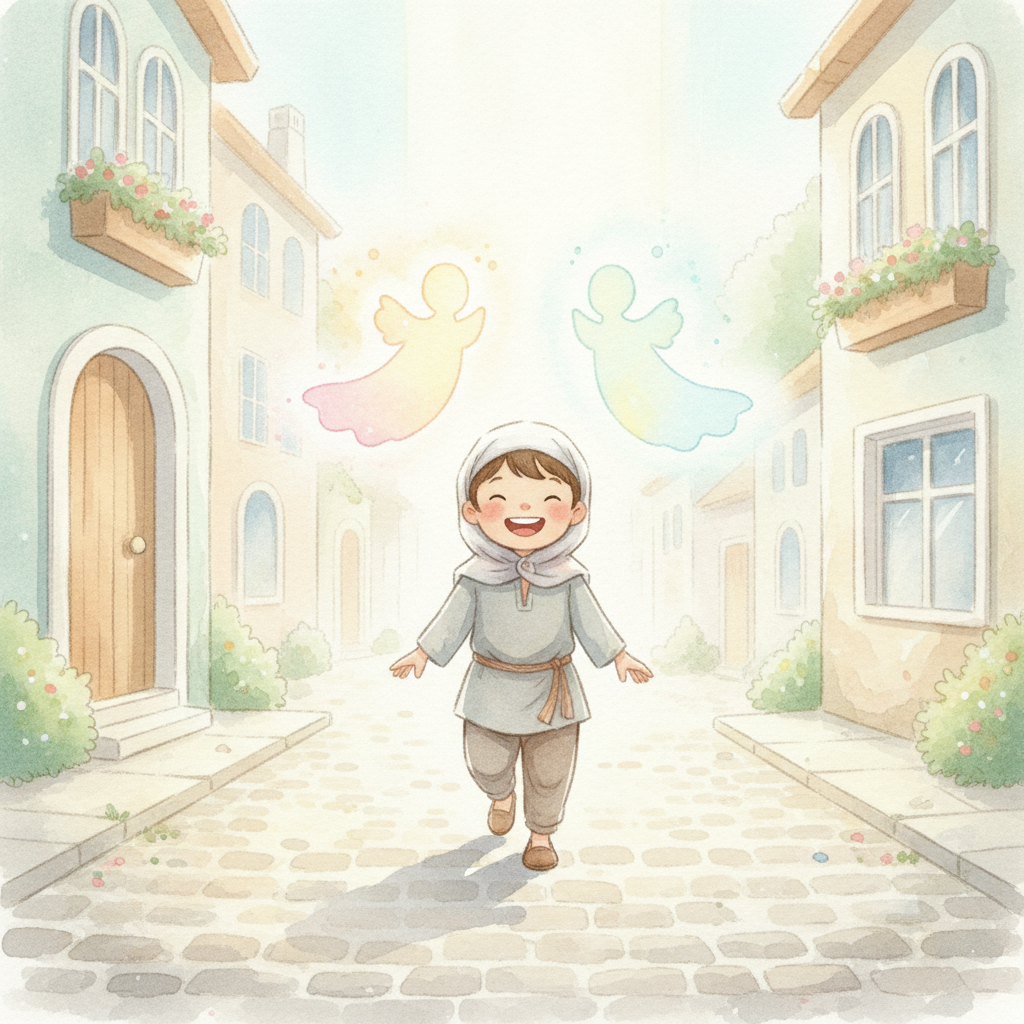
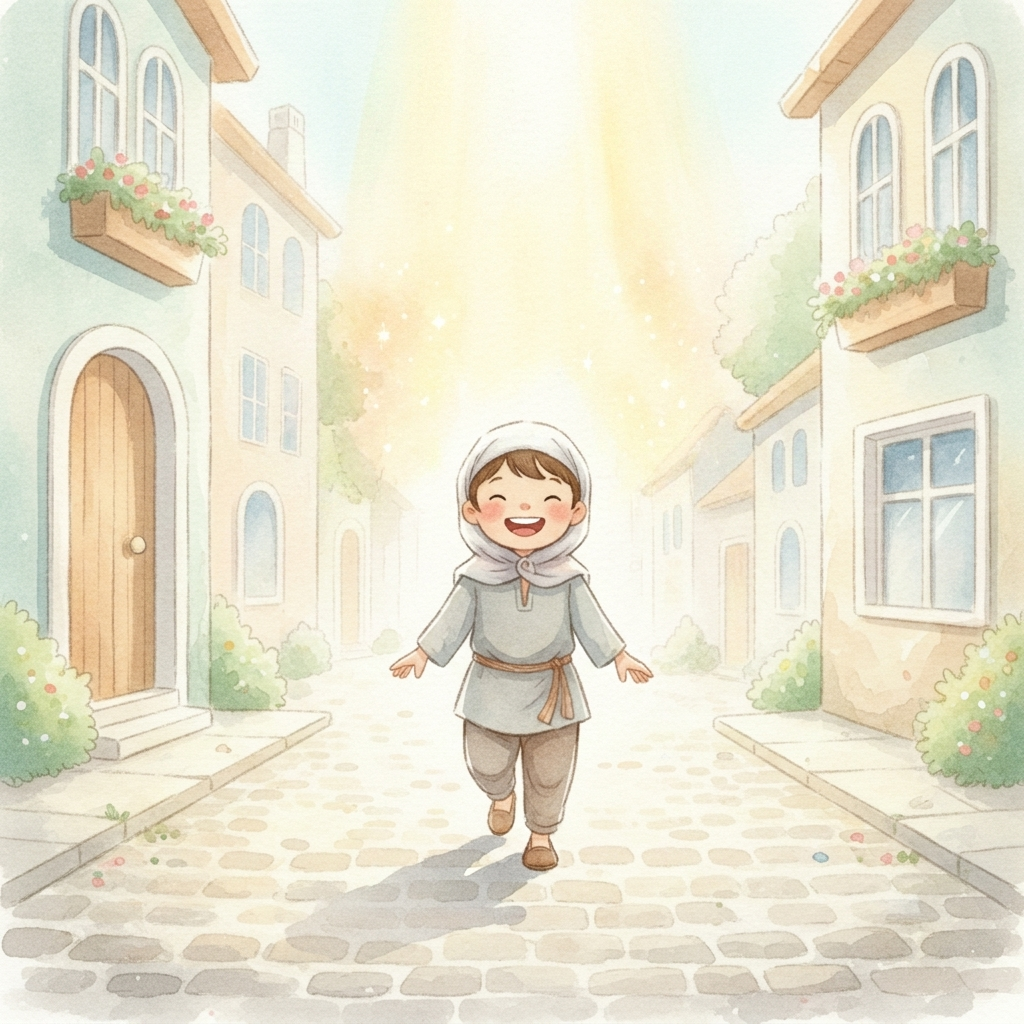
Mise en conformite charte illustrations + corrections vocabulaire/texte
- Cycle1 Annee1 : remplace la scene avec anges visibles (img09) et le
  visage du nourrisson identifiable (img11) par des versions retouchees
  via l'API Gemini, conformes a la charte (aucune representation
  d'ange ni de visage de Prophete).
- Cycle2 Annee1 : definition complete de la Niyya (resolution du coeur
  d'accomplir un acte d'adoration pour se rapprocher d'Allah).
- Cycle2 Annee1/Annee2 : supprime la phrase redondante sur
  l'emplacement image dans la charte des illustrations.

Changed region(s): [[0.5, 0.0312, 0.7812, 0.4688], [0.2812, 0.0, 0.4688, 0.5]]

diff --git a/manuels/cycle2/annee1/index.html b/manuels/cycle2/annee1/index.html
@@ -330,7 +330,7 @@
 
   <section id="charte" class="charte-card">
     <h2>🎨 Charte des illustrations</h2>
-    <p style="margin:0 0 8px;color:var(--ink-soft)">Chaque chapitre prévoit un emplacement <span class="img-slot" style="display:inline;border:none;background:none;padding:0;margin:0;font-style:italic">🖼 Emplacement image</span> avec un prompt prêt à l'emploi. Règles à respecter pour toute génération ou tout choix d'image :</p>
+    <p style="margin:0 0 8px;color:var(--ink-soft)">Règles à respecter pour toute génération ou tout choix d'image :</p>
     <ul>
       <li><strong>Jamais</strong> de représentation d'Allah, d'un ange, ou d'un Prophète (visage, silhouette identifiable) — y compris le Prophète Muhammad ﷺ.</li>
       <li>Pour les scènes de Sîra impliquant des Compagnons (Khadîja, Abû Bakr…), préférer une scène symbolique (lieu, objet, ambiance) plutôt qu'un portrait identifiable.</li>
@@ -561,7 +561,7 @@
         <div class="stitle"><span class="ico">✎</span>Vocabulaire</div>
         <div class="vocab-list">
           <div style="display:flex;justify-content:space-between;align-items:baseline;gap:12px"><span><span class="term">Wudû :</span> la petite ablution.</span> <span class="ar">وُضُوء</span></div>
-          <div style="display:flex;justify-content:space-between;align-items:baseline;gap:12px"><span><span class="term">Niyya :</span> l'intention formulée dans le cœur.</span> <span class="ar">نِيَّة</span></div>
+          <div style="display:flex;justify-content:space-between;align-items:baseline;gap:12px"><span><span class="term">Niyya :</span> la résolution du cœur d'accomplir un acte d'adoration en vue de se rapprocher d'Allah.</span> <span class="ar">نِيَّة</span></div>
           <div style="display:flex;justify-content:space-between;align-items:baseline;gap:12px"><span><span class="term">Tahâra :</span> la pureté rituelle.</span> <span class="ar">طَهَارَة</span></div>
         </div>
       </div>
@@ -734,7 +734,7 @@
       <div class="section box tinted">
         <div class="stitle"><span class="ico">✎</span>Vocabulaire</div>
         <div class="vocab-list">
-          <div style="display:flex;justify-content:space-between;align-items:baseline;gap:12px"><span><span class="term">Niyya :</span> l'intention du cœur.</span> <span class="ar">نِيَّة</span></div>
+          <div style="display:flex;justify-content:space-between;align-items:baseline;gap:12px"><span><span class="term">Niyya :</span> la résolution du cœur d'accomplir un acte d'adoration en vue de se rapprocher d'Allah.</span> <span class="ar">نِيَّة</span></div>
           <div style="display:flex;justify-content:space-between;align-items:baseline;gap:12px"><span><span class="term">'Amal :</span> une action, un acte.</span> <span class="ar">عَمَل</span></div>
           <div style="display:flex;justify-content:space-between;align-items:baseline;gap:12px"><span><span class="term">Ikhlâs :</span> la sincérité, faire les choses uniquement pour Allah.</span> <span class="ar">إِخْلَاص</span></div>
         </div>

diff --git a/manuels/cycle1/annee1/index.html b/manuels/cycle1/annee1/index.html
@@ -875,7 +875,7 @@
       <div class="lesson-text dropcap">
         <p>Les anges sont invisibles, faits de lumière, et ils obéissent toujours à Allah sans jamais se rebeller. Nous avons chacun deux anges gardiens sur nos épaules, les <strong>Kirâman Kâtibîn</strong>, qui notent nos actions : les bonnes comme les moins bonnes.</p>
       </div>
-      <img class="chapter-img" alt="Un enfant souriant qui marche, avec deux silhouettes lumineuses et bienveillantes au-dessus de ses épaules." src="images/img09.png">
+      <img class="chapter-img" alt="Un enfant souriant qui marche dans une ruelle, un doux rayon de lumière chaleureux et scintillant au-dessus de lui, ambiance bienveillante, aucune figure angélique visible." src="images/img09.png">
     </div>
 
     <div class="section">
@@ -977,7 +977,7 @@
       </div>
       <div class="verse"><div class="ar">مُحَمَّدٌ</div><div class="translit">Mouhammad</div><div class="fr">« Celui qui est loué »</div></div>
       <div class="verse"><div class="ar">بَرَكَةٌ</div><div class="translit">Baraka</div><div class="fr">La bénédiction</div></div>
-      <img class="chapter-img" alt="Une tente bédouine dans le désert d'Arabie ; Halîma berce contre elle un nourrisson emmaillotté, entourée de brebis et de chameaux." src="images/img11.png">
+      <img class="chapter-img" alt="Une tente bédouine dans le désert d'Arabie ; Halîma berce contre elle un nourrisson entièrement emmailloté, visage caché contre son épaule, entourée de brebis et de chameaux." src="images/img11.png">
     </div>
 
     <div class="section box tinted">

diff --git a/manuels/cycle2/annee2/index.html b/manuels/cycle2/annee2/index.html
@@ -315,7 +315,7 @@
 
   <section id="charte" class="charte-card">
     <h2>🎨 Charte des illustrations</h2>
-    <p style="margin:0 0 8px;color:var(--ink-soft)">Chaque chapitre prévoit un emplacement <span class="img-slot" style="display:inline;border:none;background:none;padding:0;margin:0;font-style:italic">🖼 Emplacement image</span> avec un prompt prêt à l'emploi. Règles à respecter :</p>
+    <p style="margin:0 0 8px;color:var(--ink-soft)">Règles à respecter :</p>
     <ul>
       <li><strong>Jamais</strong> de représentation d'Allah, d'un ange, ou d'un Prophète (visage, silhouette identifiable) — y compris le Prophète Muhammad ﷺ.</li>
       <li>Pour les scènes de Sîra impliquant des Compagnons (Bilâl, les premiers convertis…), préférer une scène symbolique (lieu, objet, ambiance) plutôt qu'un portrait identifiable.</li>
